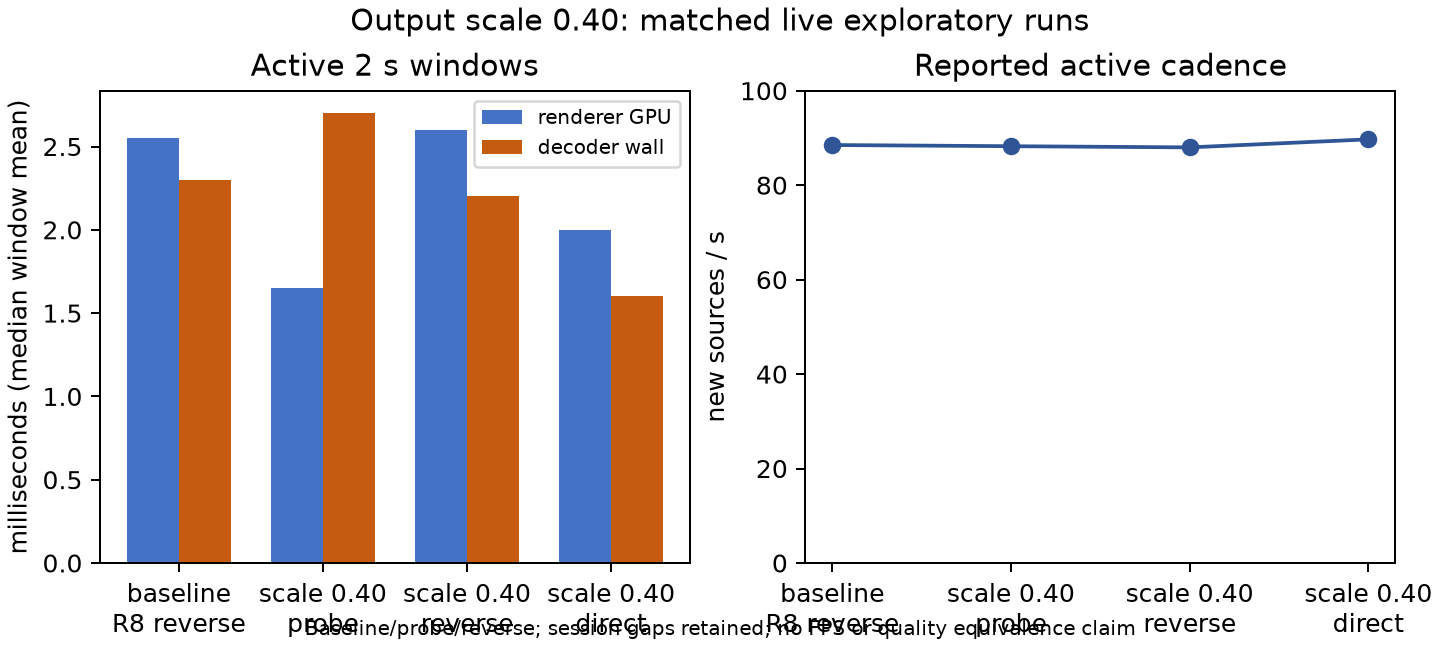
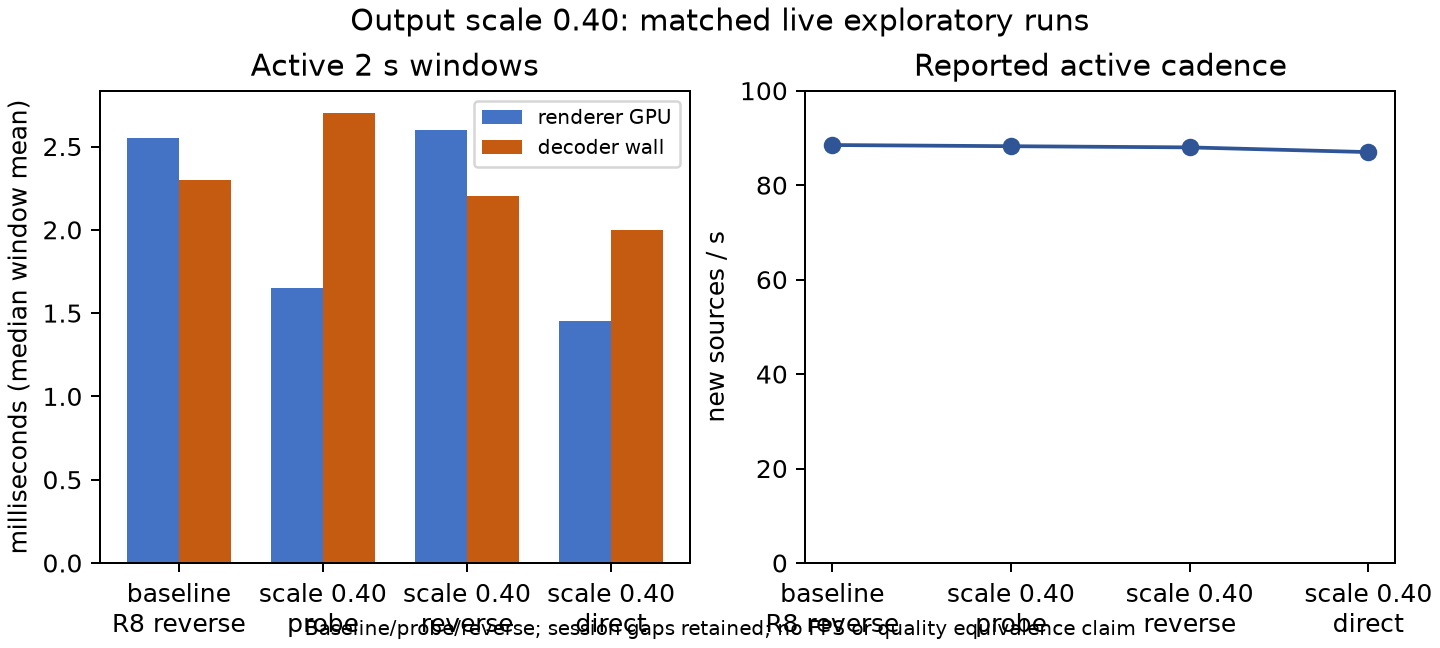
Correct output scale canonical metrics

Changed region(s): [[0.375, 0.3395, 0.4688, 0.4938], [0.8438, 0.1852, 0.9688, 0.2469]]

diff --git a/bench/results/240fps-2026-09-07/live-atlas/output-scale40/summarize.py b/bench/results/240fps-2026-09-07/live-atlas/output-scale40/summarize.py
@@ -8,7 +8,7 @@ def parse(p):
   v=[float(x) for x in re.findall(pat,t,re.I)]; return statistics.median(v) if v else None
  return {'decoder_wall_ms':med(r'nxwarp\[\d+\]: \d+ frames in .*? wall ([\d.]+) ms'),
  'decoder_gpu_ms':med(r'nxwarp\[\d+\]: .*? gpu ([\d.]+) ms'),
- 'copy_gpu_ms':med(r'copy gpu ([\d.]+) ms'),
+ 'copy_gpu_ms':med(r'copy gpu ([\d.]+) \+ queue'),
  'render_gpu_ms':med(r"own GPU pass ([\d.]+) ms"),
  'render_windows':len(re.findall(r'render: \d+ iterations in [\d.]+ s',t)),
  'active_source_per_s': (statistics.median([int(n)/float(d) for d,n in re.findall(r'render: \d+ iterations in ([\d.]+) s.*?, (\d+) new-source',t,re.I)]) if re.findall(r'render: \d+ iterations in ([\d.]+) s.*?, (\d+) new-source',t,re.I) else None)}

diff --git a/bench/results/240fps-2026-09-07/live-atlas/output-scale40/plot.py b/bench/results/240fps-2026-09-07/live-atlas/output-scale40/plot.py
@@ -1,6 +1,6 @@
 import matplotlib.pyplot as plt
 labels=['baseline\nR8 reverse','scale 0.40\nprobe','scale 0.40\nreverse','scale 0.40\ndirect']
-render=[2.55,1.65,2.60,2.0]; decwall=[2.3,2.7,2.2,1.6]; src=[88.5,88.25,88.0,89.7]
+render=[2.55,1.65,2.60,1.45]; decwall=[2.3,2.7,2.2,2.0]; src=[88.5,88.25,88.0,87.0]
 fig,(a,b)=plt.subplots(1,2,figsize=(8,3.6),constrained_layout=True)
 import numpy as np
 x=np.arange(len(labels)); width=.36

diff --git a/bench/results/240fps-2026-09-07/live-atlas/output-scale40/README.md b/bench/results/240fps-2026-09-07/live-atlas/output-scale40/README.md
@@ -12,12 +12,12 @@ GPU 2.55/1.65/2.60 ms, decoder wall 2.3/2.7/2.2 ms, decoder GPU
 1.2/1.4/1.2 ms, copy 0.28/0.29/0.29 ms, and reported fresh sources
 88.5/88.25/88 per second. Session gaps remain; these are window means and do
 not establish physical FPS. The lower scale reduced one measured display
-stage in one arm, with an observed quality tradeoff: the probe screenshot
-shows binocular checkerboard ghosting/block artifacts. It does not establish
+stage in one arm, with an observed quality tradeoff: both baseline and probe screenshots show scene artifacts, so this does not
+attribute them to scale; the probe also shows binocular checkerboard ghosting/block artifacts. It does not establish
 quality equivalence or a causal end-to-end speedup, and remains opt-in.
 
 `summary.json` is regenerated by `summarize.py`; `plot.py` creates the linked
 plot from the recorded aggregate values. Raw logs, manifests, screenshots,
 and `output-scale40.patch` are retained here with SHA256 checksums.
 
[2 lines of base64/hex data omitted]
